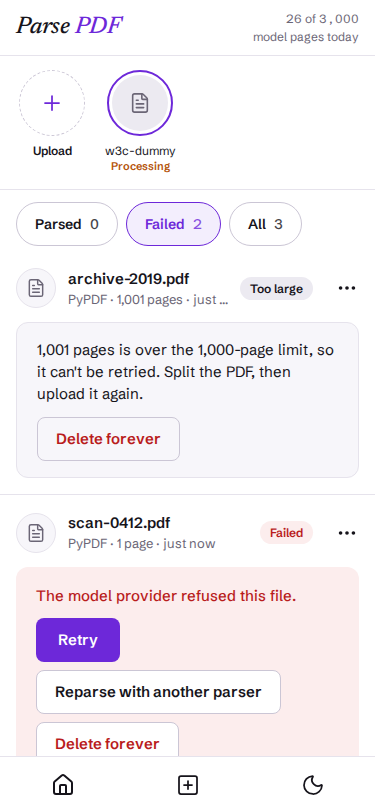
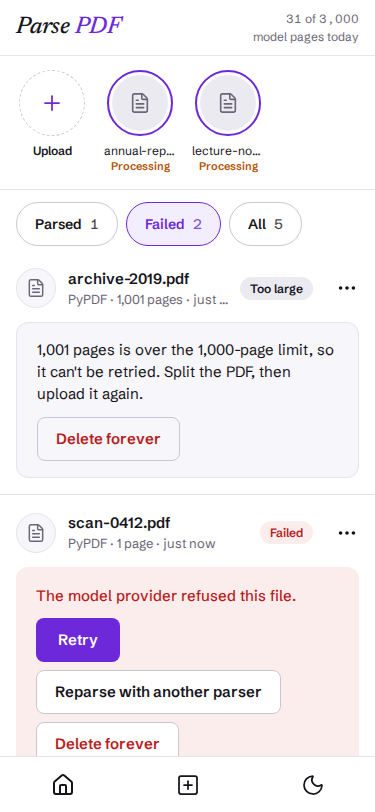
docs(specs): ad-050 screens review, 11 of 11 match at ebd58a3
Round 1 at b041b7b found PhoneFailed and PhoneDelete without a stories
row (a capture race, fixed by ebd58a3); round 2 at ebd58a3 matches all
11 frames. Pictures re-saved at ebd58a3; AD-050 recorded.

diff --git a/.specs/features/document-processing/screens.md b/.specs/features/document-processing/screens.md
@@ -1,39 +1,44 @@
 # Document processing screens
 
 **Verifier**: independent sub-agent (author != verifier)
-**Round**: 2 (of the new review the user asked for, AD-049; round 1 at 932cbba; earlier review: round 1 at 19cf1ff, round 2 at 28a6e1c)
-**HEAD**: 68cfd98
+**Round**: 2 (of the AD-050 review; round 1 at b041b7b; earlier: AD-049 review round 1 at 932cbba and round 2 at 68cfd98; first review round 1 at 19cf1ff and round 2 at 28a6e1c)
+**HEAD**: ebd58a3
 
-Round 1 judged the pictures re-saved at 8335551 (HEAD 932cbba). It re-judged every row from the
-pictures and copied no earlier verdict. Round 2 judges the pictures re-saved at 68cfd98, which
-changes only the password row's icon in `FileRow.tsx`. It reopened the one row round 1 marked
-`differs`, the DesktopUpload padlock, and looked at every `same` row of all 11 re-saved pictures for
-a visible regression. It found none. Nothing else was added or re-judged. The only change to the
-notes is that the budget numbers now read as in the re-saved pictures.
+Round 1 judged the pictures re-saved at 9de7ed3 (HEAD b041b7b). It re-judged every row of all 11
+pictures and copied no earlier verdict; two rows differed (the stories row on PhoneFailed and
+PhoneDelete). Round 2 judges the pictures re-saved at ebd58a3, which changes only the capture
+script (`frontend/captures/running.capture.ts`: two Gemini files are uploaded before the Failed
+frames). It reopened the two `differs` rows, now `same`, and looked at every `same` row of all 11
+re-saved pictures for a visible regression. It found none. Nothing else was added or re-judged; the
+only other changes are notes whose test data (budget numbers, counts, the rate-limit wait) now read
+as in the re-saved pictures. The re-saved pictures are in the working tree, not committed at
+ebd58a3.
 
 The pictures use the e2e stack's test data (local OpenRouter stub). File names, sizes, page counts,
-times, chip counts, budget numbers, summary text, the error reason for each `error_code`, feed
-order and the parser each document used all differ from the canvas sample data. They are recorded
-as notes on `same` rows. One item from `## Differences from the source` applies: the two loose text
-labels on DesktopDark are not UI (AD-025).
+times, chip counts, budget numbers, the stub summary text (including its `Key points` heading), the
+error reason for each `error_code`, feed order and the parser each document used all differ from
+the canvas sample data. They are recorded as notes on `same` rows. One item from
+`## Differences from the source` applies: the two loose text labels on DesktopDark are not UI
+(AD-025).
 
 All 11 pictures are at their frame's size: phone 375x812, tablet 768x1024, desktop 1280x1240.
 Their text reads at the capture's size, so no picture is resized. Icons were compared glyph by
-glyph at 2-4x zoom. In round 1 every glyph matched except the padlock on DesktopUpload; round 2 shows it as the capture draws it.
+glyph at 2-4x zoom (rail and tab bar icons, cloud upload, close, check, warning triangle, padlock,
+action row icons, story circles, sun and moon); every glyph matches.
 
 | Screen | Compared with | Verdict | Finding |
 | --- | --- | --- | --- |
 | `captures/PhoneEmpty.running.png` | `captures/PhoneEmpty.png` | matches | 0 rows differ; no regression |
-| `captures/DesktopUpload.running.png` | `captures/DesktopUpload.png` | matches | round 1's padlock row is now same; no regression |
-| `captures/PhonePages.running.png` | `captures/PhonePages.png` | matches | 0 rows differ; no regression; the sheet starts under the top bar |
+| `captures/DesktopUpload.running.png` | `captures/DesktopUpload.png` | matches | 0 rows differ; no regression |
+| `captures/PhonePages.running.png` | `captures/PhonePages.png` | matches | 0 rows differ; no regression; the markdown subheading cannot be judged (the stub pages have none) |
 | `captures/PhoneConfirm.running.png` | `captures/PhoneConfirm.png` | matches | 0 rows differ; no regression |
 | `captures/Main.running.png` | `captures/Main.png` | matches | 0 rows differ; no regression |
 | `captures/PhoneLight.running.png` | `captures/PhoneLight.png` | matches | 0 rows differ; no regression |
 | `captures/Tablet.running.png` | `captures/Tablet.png` | matches | 0 rows differ; no regression |
 | `captures/DesktopDark.running.png` | `captures/DesktopDark.png` | matches | 0 rows differ; no regression |
 | `captures/PhoneDark.running.png` | `captures/PhoneDark.png` | matches | 0 rows differ; no regression |
-| `captures/PhoneFailed.running.png` | `captures/PhoneFailed.png` | matches | 0 rows differ; no regression; the size-limit wording of the too-large box cannot be judged (the picture shows the page limit) |
-| `captures/PhoneDelete.running.png` | `captures/PhoneDelete.png` | matches | 0 rows differ; no regression |
+| `captures/PhoneFailed.running.png` | `captures/PhoneFailed.png` | matches | round 1's stories row is now same; no regression; the size-limit wording of the too-large box cannot be judged (the picture shows the page limit) |
+| `captures/PhoneDelete.running.png` | `captures/PhoneDelete.png` | matches | round 1's stories row is now same; no regression |
 
 ### `captures/PhoneEmpty.running.png`
 
@@ -42,7 +47,7 @@ glyph at 2-4x zoom. In round 1 every glyph matched except the padlock on Desktop
 | top bar: wordmark `Parse PDF` left (serif italic, `PDF` purple), hairline under the bar | same | |
 | top bar right: budget `<n> of 3,000` (mono) over `model pages today` | same | note: 20 instead of 1,240 (data) |
 | no stories row, no filter chips | same | |
-| empty state, centered: outline circle holding a purple cloud-upload icon | same | note: the circle's border is a slightly lighter grey (shade) |
+| empty state, centered: outline circle holding a purple cloud-upload icon | same | note: the cloud glyph is a little smaller inside the circle (size) |
 | heading `No documents yet` (serif) | same | |
 | sentence `Upload a PDF to read it page by page, with a short summary at the top.` on two lines | same | |
 | filled purple button `Upload PDFs` | same | |
@@ -54,17 +59,17 @@ glyph at 2-4x zoom. In round 1 every glyph matched except the padlock on Desktop
 | Element | Result | Picture draws |
 | --- | --- | --- |
 | left rail: wordmark; `Feed` selected (tinted block), `Upload`, `Dark mode`, each with an outline icon; hairline right edge | same | |
-| right rail: `Parsers` guide (PyPDF, Gemini 3.1 Flash Lite and GPT-5 Mini, each with its lines; `Every summary is written by Gemini 3.1 Flash Lite.`), hairline, `Model pages today` (big serif number, `of 3,000`, purple meter, `Resets at 00:00 UTC. PyPDF parsing doesn't count.`), hairline, privacy line | same | note: 37 instead of 1,240, so the meter has a sliver of fill (data) |
+| right rail: `Parsers` guide (PyPDF, Gemini 3.1 Flash Lite and GPT-5 Mini, each with its lines; `Every summary is written by Gemini 3.1 Flash Lite.`), hairline, `Model pages today` (big serif number, `of 3,000`, purple meter, `Resets at 00:00 UTC. PyPDF parsing doesn't count.`), hairline, privacy line | same | note: 41 instead of 1,240, so the meter has a sliver of fill (data) |
 | backdrop: grey scrim over the whole page | same | |
-| backdrop: stories row (dashed `Upload` circle with plus, two document circles) and the `Parsed` chip under the scrim | same | note: both document rings are solid purple (two documents processing) where the capture has one dashed queued ring (data state) |
-| backdrop: feed under the scrim: ready card (summary box, action icons, `Page 1` preview, `View all <n> pages`), no-text card (`Reparse with Gemini`, `Delete`), next ready card | same | note: stub summary with a `Key points` label; next card `w3c-dummy.pdf` (data) |
-| dialog: white, rounded, centered over the feed; header `Upload PDFs`, close `×` on the right, hairline under the header | same | |
+| backdrop: stories row (dashed `Upload` circle with plus, two document circles) and the `Parsed` chip under the scrim | same | note: both document rings are solid purple (two processing) where the capture has one dashed queued ring (data state) |
+| backdrop: feed under the scrim: ready card (summary box, action icons, `Page 1` preview, `View all <n> pages`), no-text card (`Reparse with Gemini`, `Delete`), next ready card | same | note: stub summary with a `Key points` heading; next card `w3c-dummy.pdf` (data) |
+| dialog: white, rounded, centered over the feed; header `Upload PDFs`, close `×` on the right, hairline under the header | same | note: the dialog ends about 20 px higher because its rows are tighter (spacing) |
 | drop zone: dashed border, tinted fill, purple cloud-upload icon, `Drop PDFs here, or paste them`, `Up to 20 files, 50 MB each`, outlined `Choose files` | same | note: the cloud icon is a little smaller and the zone a little shorter (spacing) |
 | `Parser` label with a native select under it | same | note: the select shows `PyPDF · plain text` instead of `Gemini 3.1 Flash Lite · markdown` (the user's pick) |
 | list heading `<n> of <m> files uploaded` | same | note: `2 of 4` |
 | accepted rows: green check, file name, mono size on the right, hairline between rows | same | note: `constitution.pdf` 3.8 MB and `federalist.pdf` 13 KB (data); rows a little tighter (spacing) |
 | rejected row: red warning triangle, name, size, red reason `This file isn't a PDF. Export it as a PDF and add it again.` | same | note: 19 B (data) |
-| password row icon: orange outline padlock left of the name | same | round 2: an outline padlock with an empty body, as the capture draws it. Round 1: differs, the padlock had a keyhole dot in its body |
+| password row icon: orange outline padlock left of the name | same | an outline padlock with an empty body, as the capture draws it |
 | password row text: name, size, orange `This PDF needs a password. It is used once to unlock the file and never stored.` on two lines | same | note: `w3c-dummy-locked.pdf`, 14 KB (data) |
 | password row field: `Password` input with a filled purple `Unlock` button on its right | same | note: `Unlock` is a little wider and the input a little shorter (spacing) |
 | footer with a hairline above it: outlined `Add more files` and filled purple `Done`, right-aligned | same | |
@@ -73,9 +78,9 @@ glyph at 2-4x zoom. In round 1 every glyph matched except the padlock on Desktop
 
 | Element | Result | Picture draws |
 | --- | --- | --- |
-| page behind: top bar with wordmark and budget, dimmed under a dark scrim | same | note: 35 (data) |
-| sheet: dark, rounded top corners, from just under the top bar to the bottom of the window | same | starts at about y 52, under the top bar, as the capture does |
-| sheet header: bold file name (cut with an ellipsis when long), close `×` on the right | same | note: `constitution-gemini.pdf` fits, so there is no ellipsis (shorter name) |
+| page behind: top bar with wordmark and budget, dimmed under a dark scrim | same | note: 39 (data) |
+| sheet: dark, rounded top corners, from just under the top bar to the bottom of the window | same | starts at about y 52, as the capture does |
+| sheet header: bold file name (cut with an ellipsis when long), close `×` on the right | same | note: `constitution-gemini.pdf` fits, so there is no ellipsis (shorter name); the `×` is a brighter white (shade) |
 | sheet header subline `<n> pages · <format> · <parser>` | same | note: `3 pages · markdown · Gemini 3.1 Flash Lite` |
 | hairline under the header | same | |
 | `Page 1`: small grey label above the page body | same | |
@@ -94,7 +99,7 @@ glyph at 2-4x zoom. In round 1 every glyph matched except the padlock on Desktop
 | bottom sheet: white, rounded top corners, full width | same | note: starts higher because the title takes two lines |
 | title `Reparse <file>?` in bold | same | note: wraps to two lines (longer name) |
 | sentence `Its pages and summary are cleared, then it runs again with the parser you pick.` | same | |
-| `Parser` label, then three bordered radio rows: `PyPDF · plain text`, `Gemini 3.1 Flash Lite · markdown`, `GPT-5 Mini · OCR`; the selected row has a purple border and tint | same | note: PyPDF is selected instead of GPT-5 Mini (the document's current parser). The parser names are a heavier weight and the `Parser` label a lighter one (type weight) |
+| `Parser` label, then three bordered radio rows: `PyPDF · plain text`, `Gemini 3.1 Flash Lite · markdown`, `GPT-5 Mini · OCR`; the selected row has a purple border and tint | same | note: PyPDF is selected instead of GPT-5 Mini (the document's current parser). The parser names are a heavier weight and the `Parser` label a lighter one (type weight); rows a little shorter (spacing) |
 | outlined `Cancel` and filled purple `Reparse`, right-aligned | same | |
 
 ### `captures/Main.running.png`
@@ -106,7 +111,7 @@ glyph at 2-4x zoom. In round 1 every glyph matched except the padlock on Desktop
 | hairline under the stories row | same | |
 | chips `Parsed 3` (selected, purple border and tint), `Failed`, `All` with counts | same | note: 3 / 0 / 5 (data) |
 | ready card header: round doc icon, bold name, meta `<parser> · <n> pages · <time>`, green `Ready` badge, `…` | same | note: `PyPDF · 85 pages · just now` (data) |
-| summary box: tinted, hairline border, `Summary · Gemini 3.1 Flash Lite` label, serif overview, serif bullets | same | note: a small grey `Key points` line sits between the overview and the bullets. The picture alone cannot show whether it is a heading in the stub's summary markdown or a UI label; it is styled like the box label |
+| summary box: tinted, hairline border, `Summary · Gemini 3.1 Flash Lite` label, serif overview, serif bullets | same | note: the stub summary has a small grey `Key points` heading between the overview and the bullets (data) |
 | action row: book, refresh and copy icons on the left, trash on the right | same | |
 | page preview: bold `Page 1` followed by serif text cut with an ellipsis on the second line, then the `View all <n> pages` link | same | note: the PyPDF text of the sample (data) |
 | hairline between cards | same | |
@@ -125,7 +130,7 @@ glyph at 2-4x zoom. In round 1 every glyph matched except the padlock on Desktop
 | hairline under the stories row | same | |
 | chips `Parsed` (selected, purple tint), `Failed`, `All` with counts | same | note: 3 / 0 / 5 (data) |
 | card header: doc icon, name cut with an ellipsis, meta line, green `Ready` badge, `…` | same | note: the meta `PyPDF · 85 pages · just now` fits, so it is not cut (data) |
-| summary box: tinted, hairline, label, serif overview, serif bullets | same | note: the stub summary is shorter and has a `Key points` line, so the box ends above the tab bar and the action row and the start of the `Page 1` preview show (data) |
+| summary box: tinted, hairline, label, serif overview, serif bullets | same | note: the stub summary is shorter and has a `Key points` heading, so the box ends above the tab bar and the action row and the start of the `Page 1` preview show (data) |
 | bottom tab bar with a hairline above it: home, plus-square, moon | same | |
 
 ### `captures/Tablet.running.png`
@@ -136,7 +141,7 @@ glyph at 2-4x zoom. In round 1 every glyph matched except the padlock on Desktop
 | rate-limit banner at the top of the column: warning triangle, `Too many uploads in the last minute. You can upload again in <n> s.` in orange on an orange tint, rounded | same | note: `22 s` instead of `42 s` (the wait from `Retry-After`) |
 | stories row: `Upload` dashed circle, document circles with name and status | same | note: two processing instead of queued + processing (data state) |
 | hairline, then chips `Parsed` (selected), `Failed`, `All` with counts | same | note: 3 / 0 / 5 (data) |
-| ready card: header, summary box, action row (book, refresh and copy; trash on the right), `Page 1` preview cut with an ellipsis, `View all <n> pages` | same | note: stub summary with a `Key points` line (data) |
+| ready card: header, summary box, action row (book, refresh and copy; trash on the right), `Page 1` preview cut with an ellipsis, `View all <n> pages` | same | note: stub summary with a `Key points` heading (data) |
 | hairline between cards | same | |
 | no-text card: grey `No text` badge; bold `No text found on any page.` then `This usually means a scanned PDF or a photo of a page. Gemini 3.1 Flash Lite reads scanned pages.` | same | |
 | no-text buttons: filled purple `Reparse with Gemini`, outlined `Delete` | same | note: the shorter card above lets the whole box show (data) |
@@ -149,9 +154,9 @@ glyph at 2-4x zoom. In round 1 every glyph matched except the padlock on Desktop
 | dark theme throughout: near-black background, hairline borders, lavender primary | same | |
 | left rail: wordmark (`PDF` lavender); `Feed` selected, `Upload`, `Light mode` with a sun icon | same | |
 | loose labels `scripts/phase.sh implement` and `annual-report` over the summary | same | left out per `## Differences from the source` (AD-025) |
-| stories row (dashed `Upload`, document circles with lavender rings, yellow `Processing`) and hairline | same | note: two processing instead of queued + processing (data state); the `Processing` text is a more orange yellow (shade) |
+| stories row (dashed `Upload`, document circles with lavender rings, yellow `Processing`) and hairline | same | note: two processing instead of queued + processing (data state) |
 | chips `Parsed` (selected, lavender border and purple tint), `Failed`, `All` | same | note: 3 / 0 / 5 (data) |
-| ready card: header with green `Ready` badge, dark summary box, action icons, `Page 1` preview, `View all <n> pages` link | same | note: stub summary with a `Key points` line (data) |
+| ready card: header with green `Ready` badge, dark summary box, action icons, `Page 1` preview, `View all <n> pages` link | same | note: stub summary with a `Key points` heading (data) |
 | no-text card: `No text` badge; bold `No text found on any page.` then `This usually means a scanned PDF or a photo of a page. Gemini 3.1 Flash Lite reads scanned pages.` | same | |
 | no-text buttons: lavender filled `Reparse with Gemini` with dark text, outlined `Delete` | same | |
 | next ready card, cut by the window | same | |
@@ -172,11 +177,11 @@ glyph at 2-4x zoom. In round 1 every glyph matched except the padlock on Desktop
 
 | Element | Result | Picture draws |
 | --- | --- | --- |
-| top bar: wordmark, budget, hairline | same | note: 26 (data) |
-| stories row: dashed `Upload`, document circles with status | same | note: a single processing document (`w3c-dummy`) instead of queued + processing (data state) |
-| chips: `Parsed`, `Failed` (selected, purple tint), `All` with counts | same | note: 0 / 2 / 3 (data) |
+| top bar: wordmark, budget, hairline | same | note: 31 (data) |
+| stories row under the top bar: dashed `Upload` circle with plus, document circles with name and status, hairline under it | same | round 2: the row is back under the top bar: dashed `Upload` circle with plus, then `annual-rep…` and `lecture-no…`, both solid purple with orange `Processing`, and a hairline under it. Note: two processing instead of queued + processing (data state). Round 1: differs, no stories row at all (no document was in flight when the picture was taken) |
+| chips: `Parsed`, `Failed` (selected, purple tint), `All` with counts | same | note: 1 / 2 / 5 (data) |
 | failed card header: doc icon, name, meta, red `Failed` badge, `…` | same | note: the failed card is second; the too-large card is first (newest first, data order) |
-| failed box: pink tint; red reason sentence; then, stacked, filled purple `Retry`, outlined `Reparse with another parser`, outlined `Delete forever` in red text | same | note: reason `The model provider refused this file.` instead of the max-deliveries sentence (another `error_code`); the box runs under the tab bar |
+| failed box: pink tint; red reason sentence; then, stacked, filled purple `Retry`, outlined `Reparse with another parser`, outlined `Delete forever` in red text | same | note: reason `The model provider refused this file.` instead of the max-deliveries sentence (another `error_code`); the box runs under the tab bar, as the capture's does |
 | hairline between cards | same | |
 | too-large card header: doc icon, name, meta cut with an ellipsis, grey `Too large` badge, `…` | same | |
 | too-large box: grey tint; sentence `<limit reason>, so it can't be retried. ... then upload it again.`; outlined `Delete forever` in red text only | same | note: page-limit wording `1,001 pages is over the 1,000-page limit, so it can't be retried. Split the PDF, then upload it again.` The capture draws the size limit (`... Split or compress the PDF, then upload it again.`), which this picture does not show, so that wording cannot be judged here |
@@ -186,7 +191,9 @@ glyph at 2-4x zoom. In round 1 every glyph matched except the padlock on Desktop
 
 | Element | Result | Picture draws |
 | --- | --- | --- |
-| page behind, dimmed: top bar, stories row, chips with `Failed` selected, failed card with Retry, Reparse and Delete forever | same | note: the too-large card sits above the failed card (data order), so most of the failed card's buttons are under the sheet |
+| page behind, dimmed: top bar | same | note: 31 (data) |
+| page behind, dimmed: stories row (dashed `Upload` circle, document circles) and hairline | same | round 2: the dimmed row is back: dashed `Upload`, `annual-rep…` and `lecture-no…` processing, hairline above the chips. Note: two processing instead of queued + processing (data state). Round 1: differs, no stories row |
+| page behind, dimmed: chips with `Failed` selected, failed card with `Retry`, `Reparse with another parser` and `Delete forever` | same | note: the too-large card sits above the failed card (data order), so the failed card's buttons are under the sheet; only the top edge of `Retry` shows |
 | bottom sheet: white, rounded top corners, full width | same | |
 | title `Delete <file> forever?` in bold | same | note: fits on one line (shorter name) |
 | sentence `The PDF, its pages and its summary are removed for good. This can't be undone.` | same | |

diff --git a/.specs/features/document-processing/plan.md b/.specs/features/document-processing/plan.md
@@ -3,7 +3,7 @@
 **Approved**: 2026-11-19 - user: "Approve the plan"
 **Settled mid-build:** 2026-11-19 (design session, before any build) - user: "use instagram as the base layout but with other colors choose which combine more here purple or green as the primary and do it with light and dark mode options"; then chose fonts "Keep both", stories row "Yes, progress rings", desktop "Instagram 3 columns", prototype "Live HTML mockup" - AD-020; criteria 67-71 and `GET /api/v1/budget` added; then "we must have a chip clickable filter that is default just already parsed docs, and will have the other option to show all parsed queued and processing, on stories they will never be ommited, this filter is only for the feed aread" - AD-021, criteria 16 and 72, `state` on `GET /api/v1/documents`; then "how about the failed ones? we must have one option to retry and see the failed, retry or remove forever" - AD-022, criteria 16, 72 and 73 rewritten: Parsed / Failed / All chips, Retry and Delete forever on failed cards; canvas frames PhoneFailed and PhoneDelete approved: "Looks right"; then, answering the build's stops: "1- you have my ok" (S6 frame captures and the sample downloads; the two public samples were downloaded the same day into `samples/`), "2- if the decision is easy to decide what is better you take, just if is a metter of preference, but most part try to do at your own" - AD-023, "4- really? if you can you can push, if is not allowed you can just commit and we push in the end" - AD-023 (push to `origin/main` after each slice commit is approved), "6: perfect, if possible use as well playwright cli to test all and guarantee we have no issues." - AD-024, criterion 81; the two loose text labels on the DesktopDark frame are notes, not UI - AD-025
 **Review:** 2026-11-20 - Verifier and screens round 1 sent at `19cf1ff` (fresh sub-agents); Verifier FAIL with 9 findings, screens 5 match and 6 diverge; after the pre-push review, Verifier on 4aa581f..68cfd98 and a new screens review (AD-049, round 1 at `932cbba`: 10 match, DesktopUpload diverges on the padlock) sent as fresh sub-agents
-**Fix pass:** 2026-11-20 - `28a6e1c` closes all 9 findings and the 6 diverging frames (AD-039, AD-040, AD-041); pictures re-saved and screens round 2 sent at `28a6e1c`; `8335551` closes the open pre-push items and the PhonePages frame (AD-042..AD-047), `68cfd98` the DesktopUpload padlock, `9de7ed3` the Verifier's 3 findings on 4aa581f..68cfd98; pictures re-saved and the new review's round 2 sent at `68cfd98`
+**Fix pass:** 2026-11-20 - `28a6e1c` closes all 9 findings and the 6 diverging frames (AD-039, AD-040, AD-041); pictures re-saved and screens round 2 sent at `28a6e1c`; `8335551` closes the open pre-push items and the PhonePages frame (AD-042..AD-047), `68cfd98` the DesktopUpload padlock, `9de7ed3` the Verifier's 3 findings on 4aa581f..68cfd98, then pictures re-saved and a fresh screens review (AD-050) sent at `b041b7b`; `ebd58a3` fixes the capture race behind its 2 diverging frames, pictures re-saved and its round 2 sent at `ebd58a3`; pictures re-saved and the new review's round 2 sent at `68cfd98`
 
 ## Problem
 

diff --git a/.specs/features/document-processing/checks.md b/.specs/features/document-processing/checks.md
@@ -436,7 +436,7 @@ Proof: run backend | test_ensure_bucket_twice_in_a_row_is_a_no_op PASSED
 ## Handoff
 
 - **Settled mid-build:** none
-- **Dispatched:** Verifier at `19cf1ff`, returned; screens round 1 at `19cf1ff`, returned; screens round 2 at `28a6e1c`, returned; new screens review (AD-049) round 1 at `932cbba`, returned; Verifier on 4aa581f..68cfd98 at `68cfd98`, returned (FAIL, 3 findings, closed by `9de7ed3`); new screens review round 2 at `68cfd98`, returned (11 match)
+- **Dispatched:** Verifier at `19cf1ff`, returned; screens round 1 at `19cf1ff`, returned; screens round 2 at `28a6e1c`, returned; new screens review (AD-049) round 1 at `932cbba`, returned; Verifier on 4aa581f..68cfd98 at `68cfd98`, returned (FAIL, 3 findings, closed by `9de7ed3`); new screens review round 2 at `68cfd98`, returned (11 match); AD-050 screens review round 1 at `b041b7b` (pictures re-saved at `9de7ed3`), returned (9 match, PhoneFailed and PhoneDelete diverge: no stories row, a capture race fixed by `ebd58a3`); AD-050 round 2 at `ebd58a3`, returned (11 match)
 - **Boundary:** S1-S5 committed in 0967d3c (AD-033), C82 in a5244c8, C1's clean-checkout record in a5f5361; S6 (C54-C73) and S7 (C74-C80) committed after them; every slice pushed to `origin/main`
 - **Abandoned:** a `ProcessPoolExecutor` for inspection and parsing (it cannot kill a hung child; AD-026); `--reporter=list` on the e2e Run line (a CLI reporter replaces the config's, so no HTML report was written: the Run line now uses the config's list and HTML reporters); the stub's fail-once keyed on the whole text (a retried document's summary call was refused again; AD-034)
 - **Walked:** on the Vite dev server (`.claude/launch.json`, port 5180, `/api` proxied to the e2e stack) by `frontend/captures/running.capture.ts` at each frame's size, every state reached from the one route `/`: empty feed (first visit) -> upload dialog with 3 files, 1 refused ("Upload PDFs" in the rail or tab bar) -> stories row with 2 active files -> Parsed feed with a ready, a no_text and a ready card -> pages sheet ("View all 85 pages") -> reparse confirmation (the card's reparse icon) -> Failed chip with a dead and a too_large card -> Delete forever confirmation (the dead card's button); each state saved as `captures/<Frame>.running.png` and compared with its frame by eye before commit (the reparse parser rows and the upload dialog's "Add more files" were fixed to match)

diff --git a/.specs/STATE.md b/.specs/STATE.md
@@ -53,3 +53,4 @@
 | AD-047 | A ready card fetches its page-1 preview only once the card is within 600 px of the viewport (IntersectionObserver, then it stays loaded); where IntersectionObserver is missing it loads at once. The list response is unchanged | user, under AD-023: "loads only when the card is near the viewport (IntersectionObserver), or comes in the list response"; the observer keeps the API contract (door 4) as it is | active | 2026-11-20 |
 | AD-048 | `proofs.md` is not committed (`.gitignore`): check_proofs writes it at HEAD, so a commit holding it would move HEAD past the run it records | the gate compares the HEAD in proofs.md with the git HEAD; the record of the run stays on disk next to the specs | active | 2026-11-20 |
 | AD-049 | After screens round 2 the user asked for a fresh screens review of all 11 frames at the new HEAD: it runs as round 1 of a new review (`**Round**: 1`, with the earlier rounds named in `screens.md`), so at most one more round follows it before anything goes back to the user | user, relayed by the planning session on 2026-11-20: "run a fresh screens round (a new subagent, all 11 frames)"; the skill sends what differs after round 2 to the user, and the user's answer is this new review | active | 2026-11-20 |
+| AD-050 | After the AD-049 review's round 2 (11 of 11 match at `68cfd98`), `9de7ed3` closed the Verifier's findings (worker-thread child start, confirm-flow ownership, tests; no rendered change). The pictures are re-saved at `9de7ed3` and a fresh screens sub-agent judges all 11 as round 1 of another user-requested review | user, asked when the gate flagged code after round 2: "Re-judge at 9de7ed3 (Recommended)" | active | 2026-11-20 |
